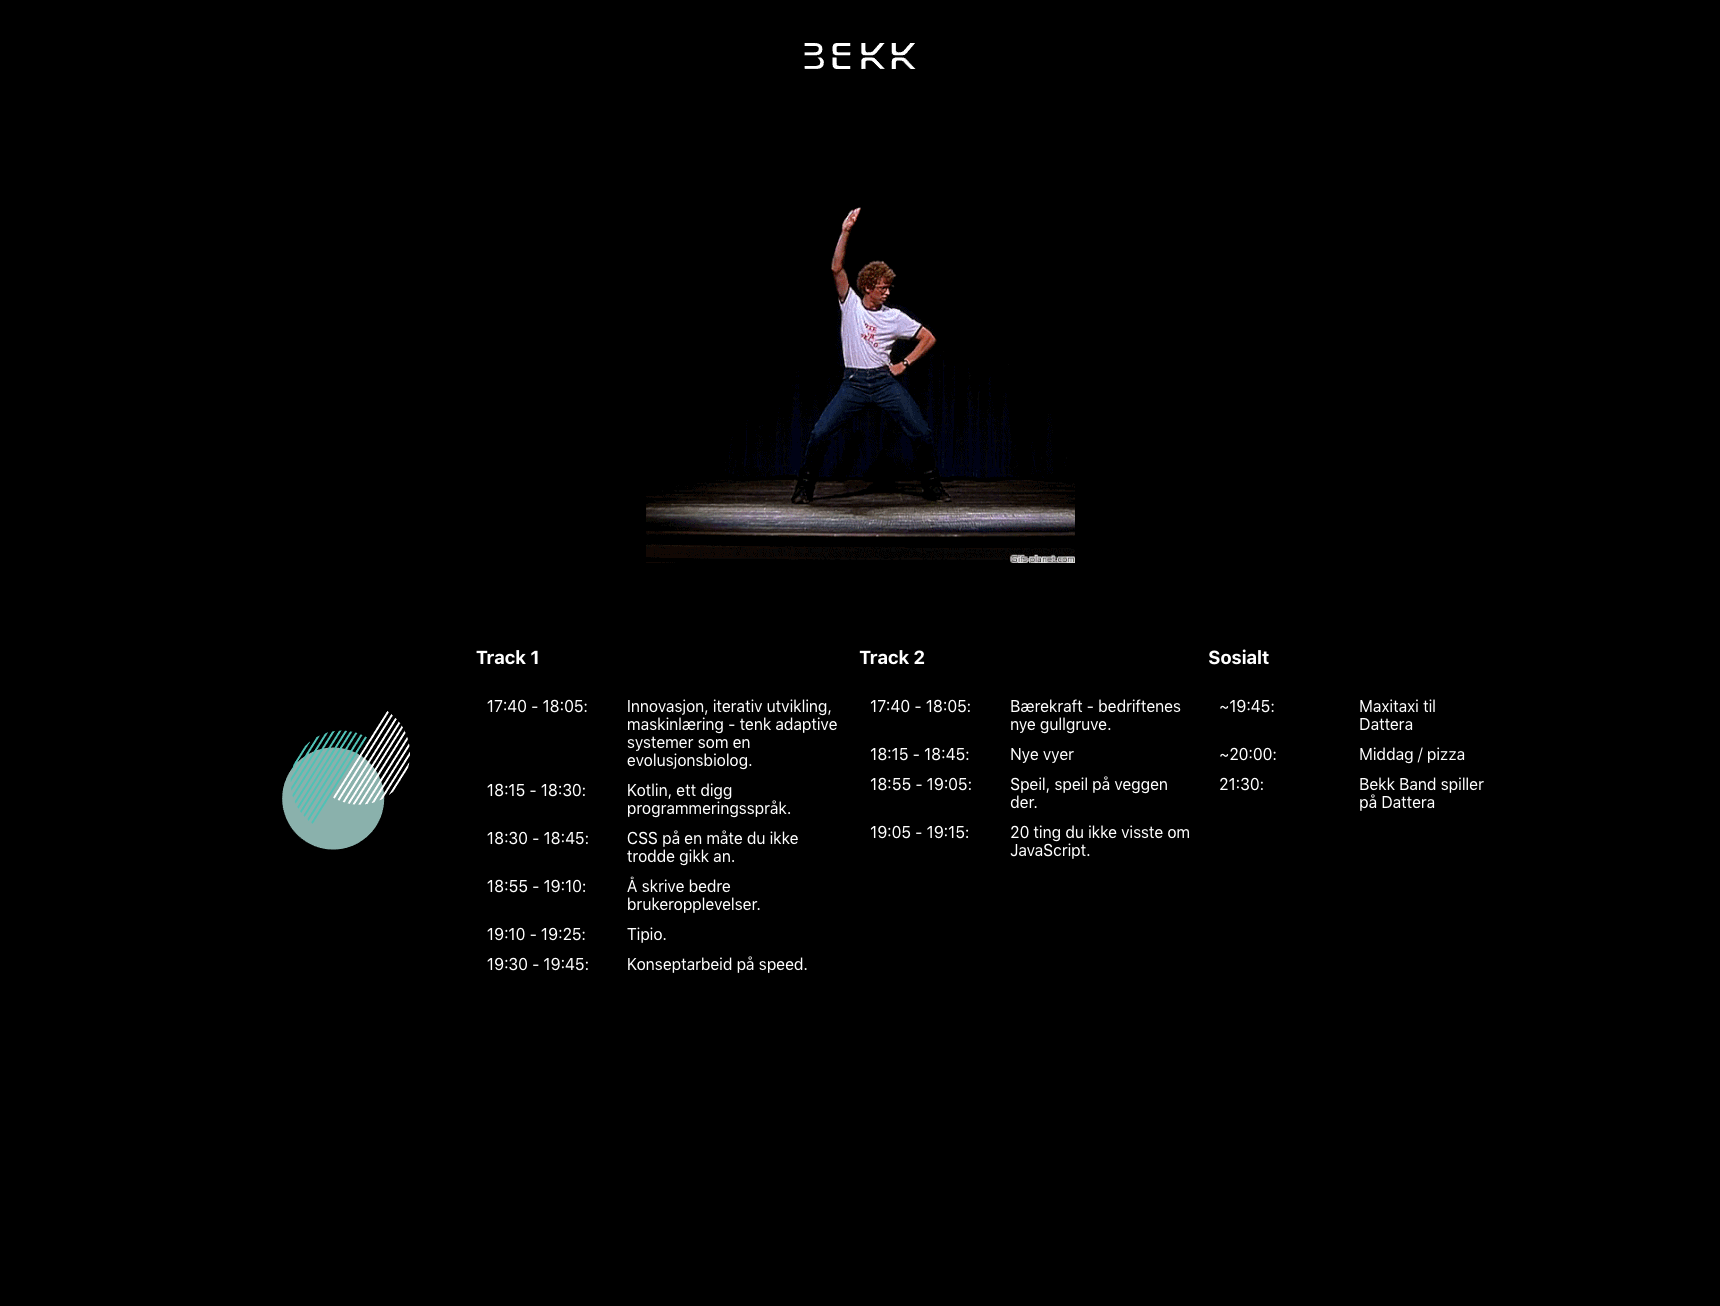
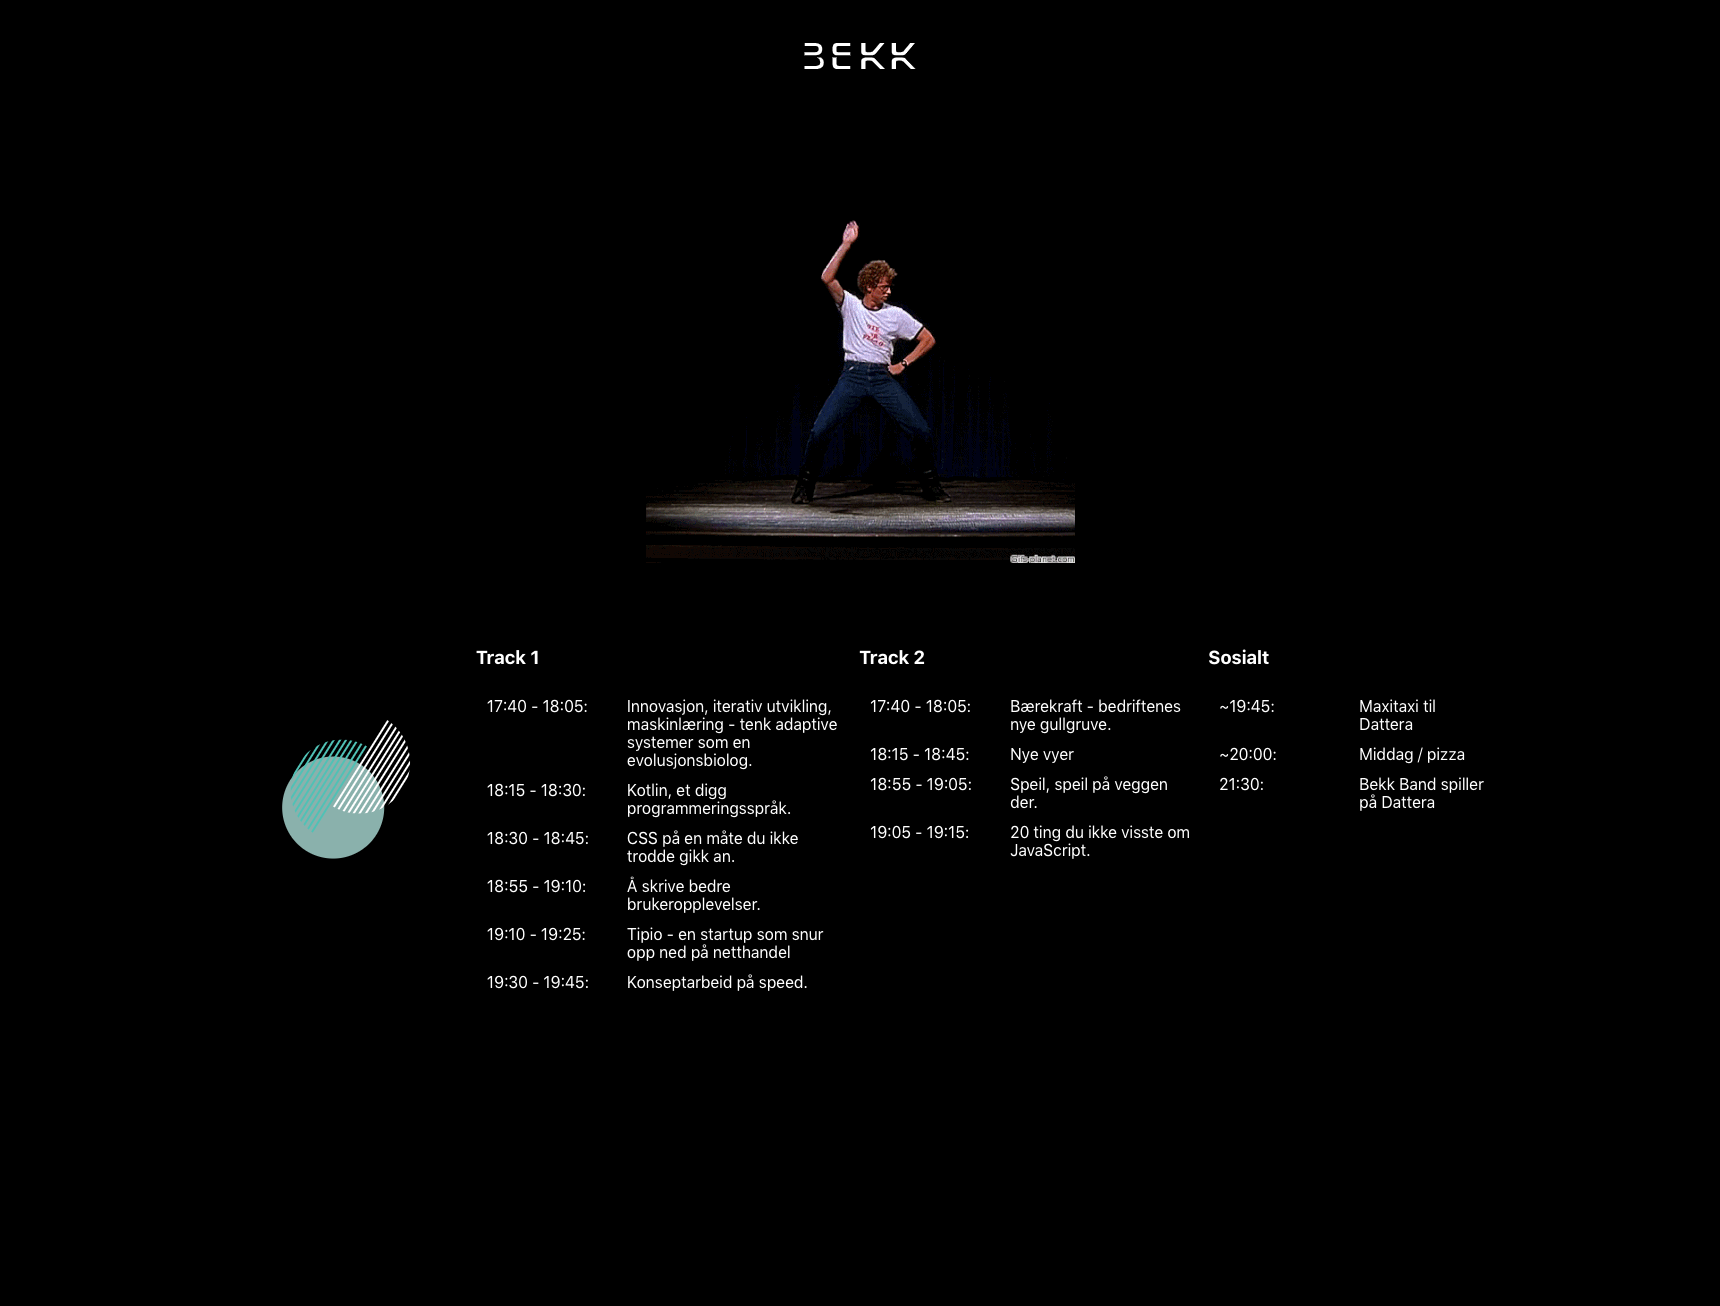
Fjernet css, oppdaterte screenshot.

diff --git a/src/app.css b/src/app.css
@@ -1,6 +1,4 @@
 .app {
-    height: 100%;
-    background-color: black
 }
 
 
